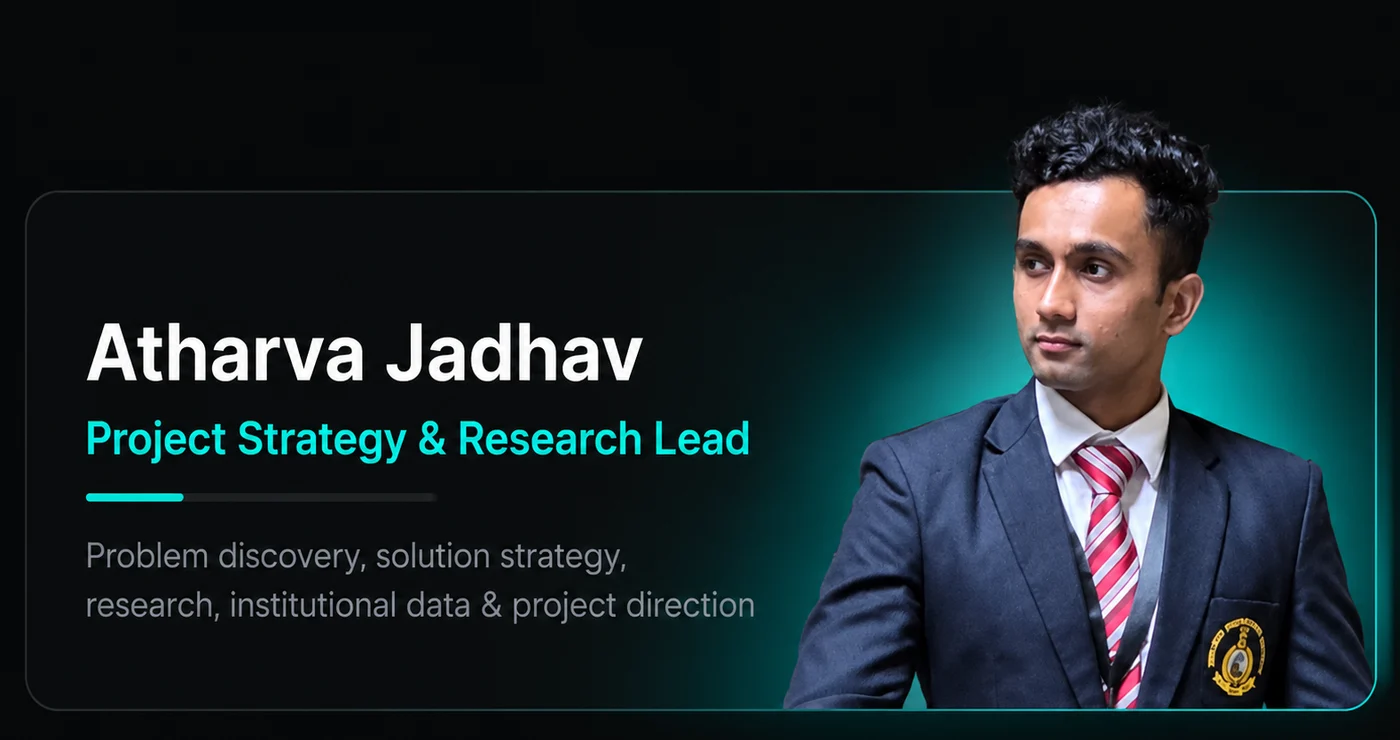
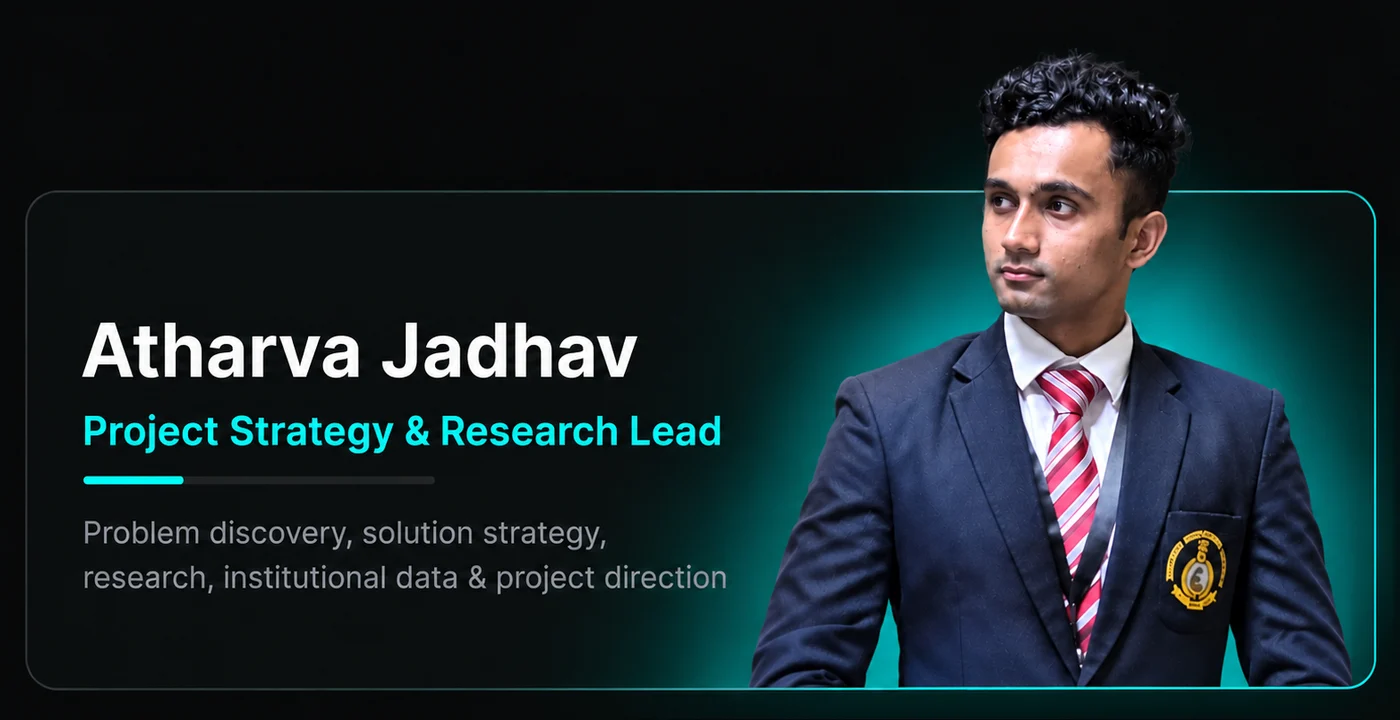
Team cards: use the updated Purva and Atharva pictures, keep all four the same size

Changed region(s): [[0.0307, 0.0611, 1.0, 0.9778]]

diff --git a/dashboard/src/pages/Landing.jsx b/dashboard/src/pages/Landing.jsx
@@ -269,7 +269,7 @@ export default function Landing() {
         <div className="mt-10 grid gap-x-4 gap-y-2 md:grid-cols-2">
           {TEAM.map((m, i) => (
             <Reveal key={m.file} delay={(i % 2) * 120}>
-              <img src={`team/${m.file}.webp`} alt={m.alt} width="1400" height="740" loading="lazy" className="w-full select-none [mix-blend-mode:lighten]" />
+              <img src={`team/${m.file}.webp`} alt={m.alt} width="1400" height="720" loading="lazy" className="w-full select-none [mix-blend-mode:lighten]" />
             </Reveal>
           ))}
         </div>
